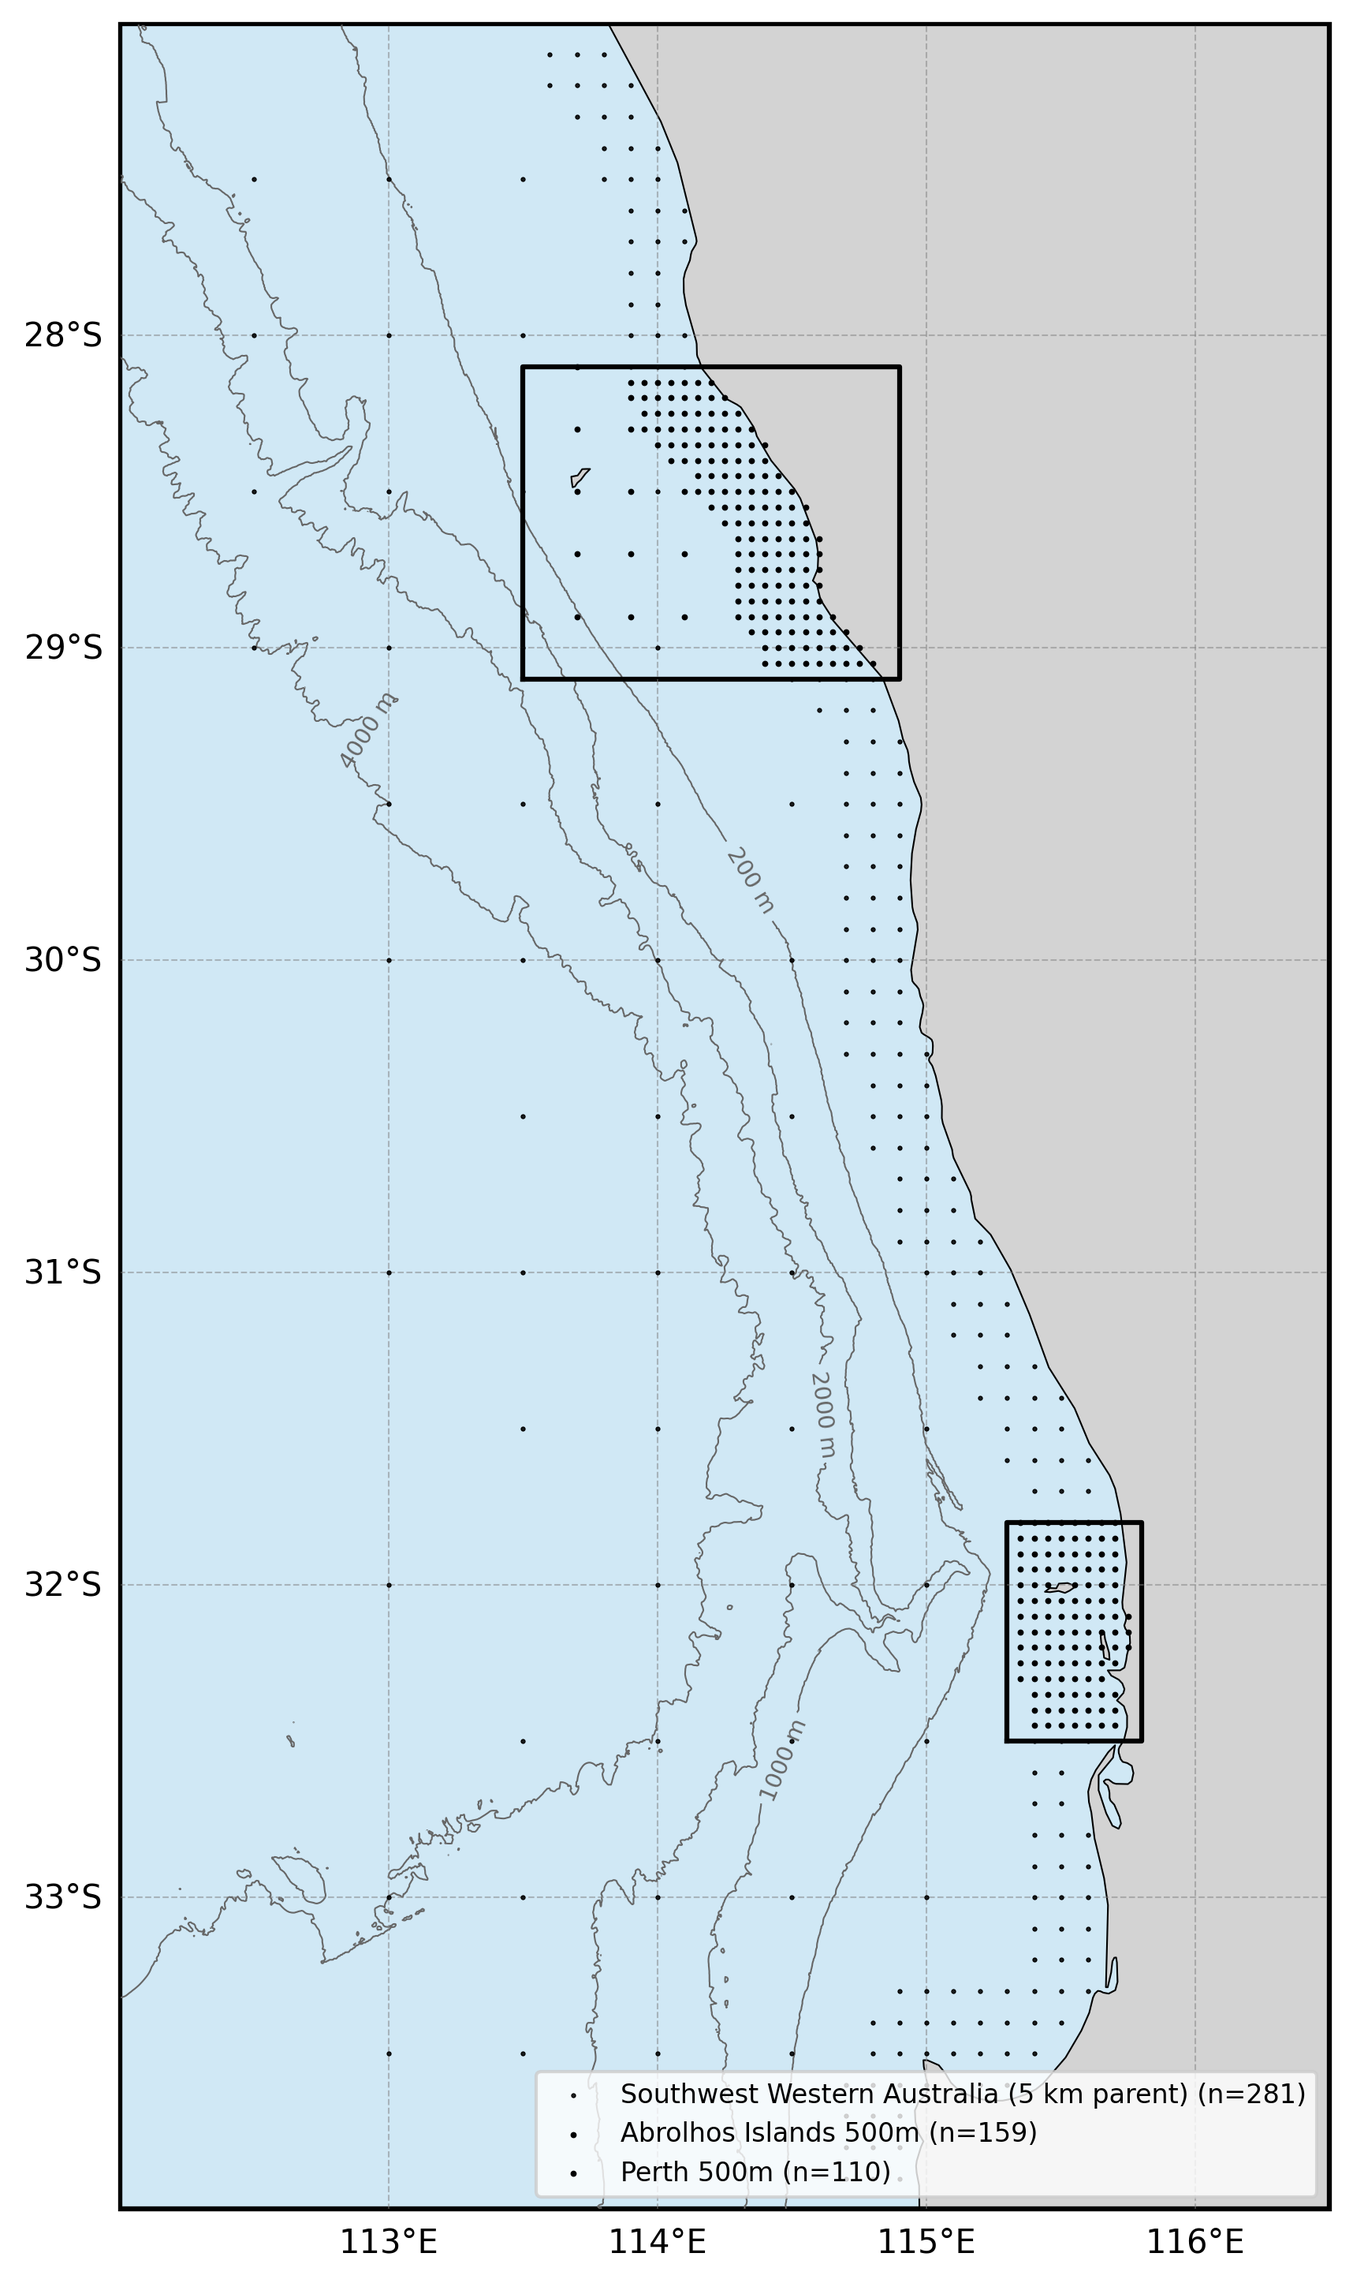
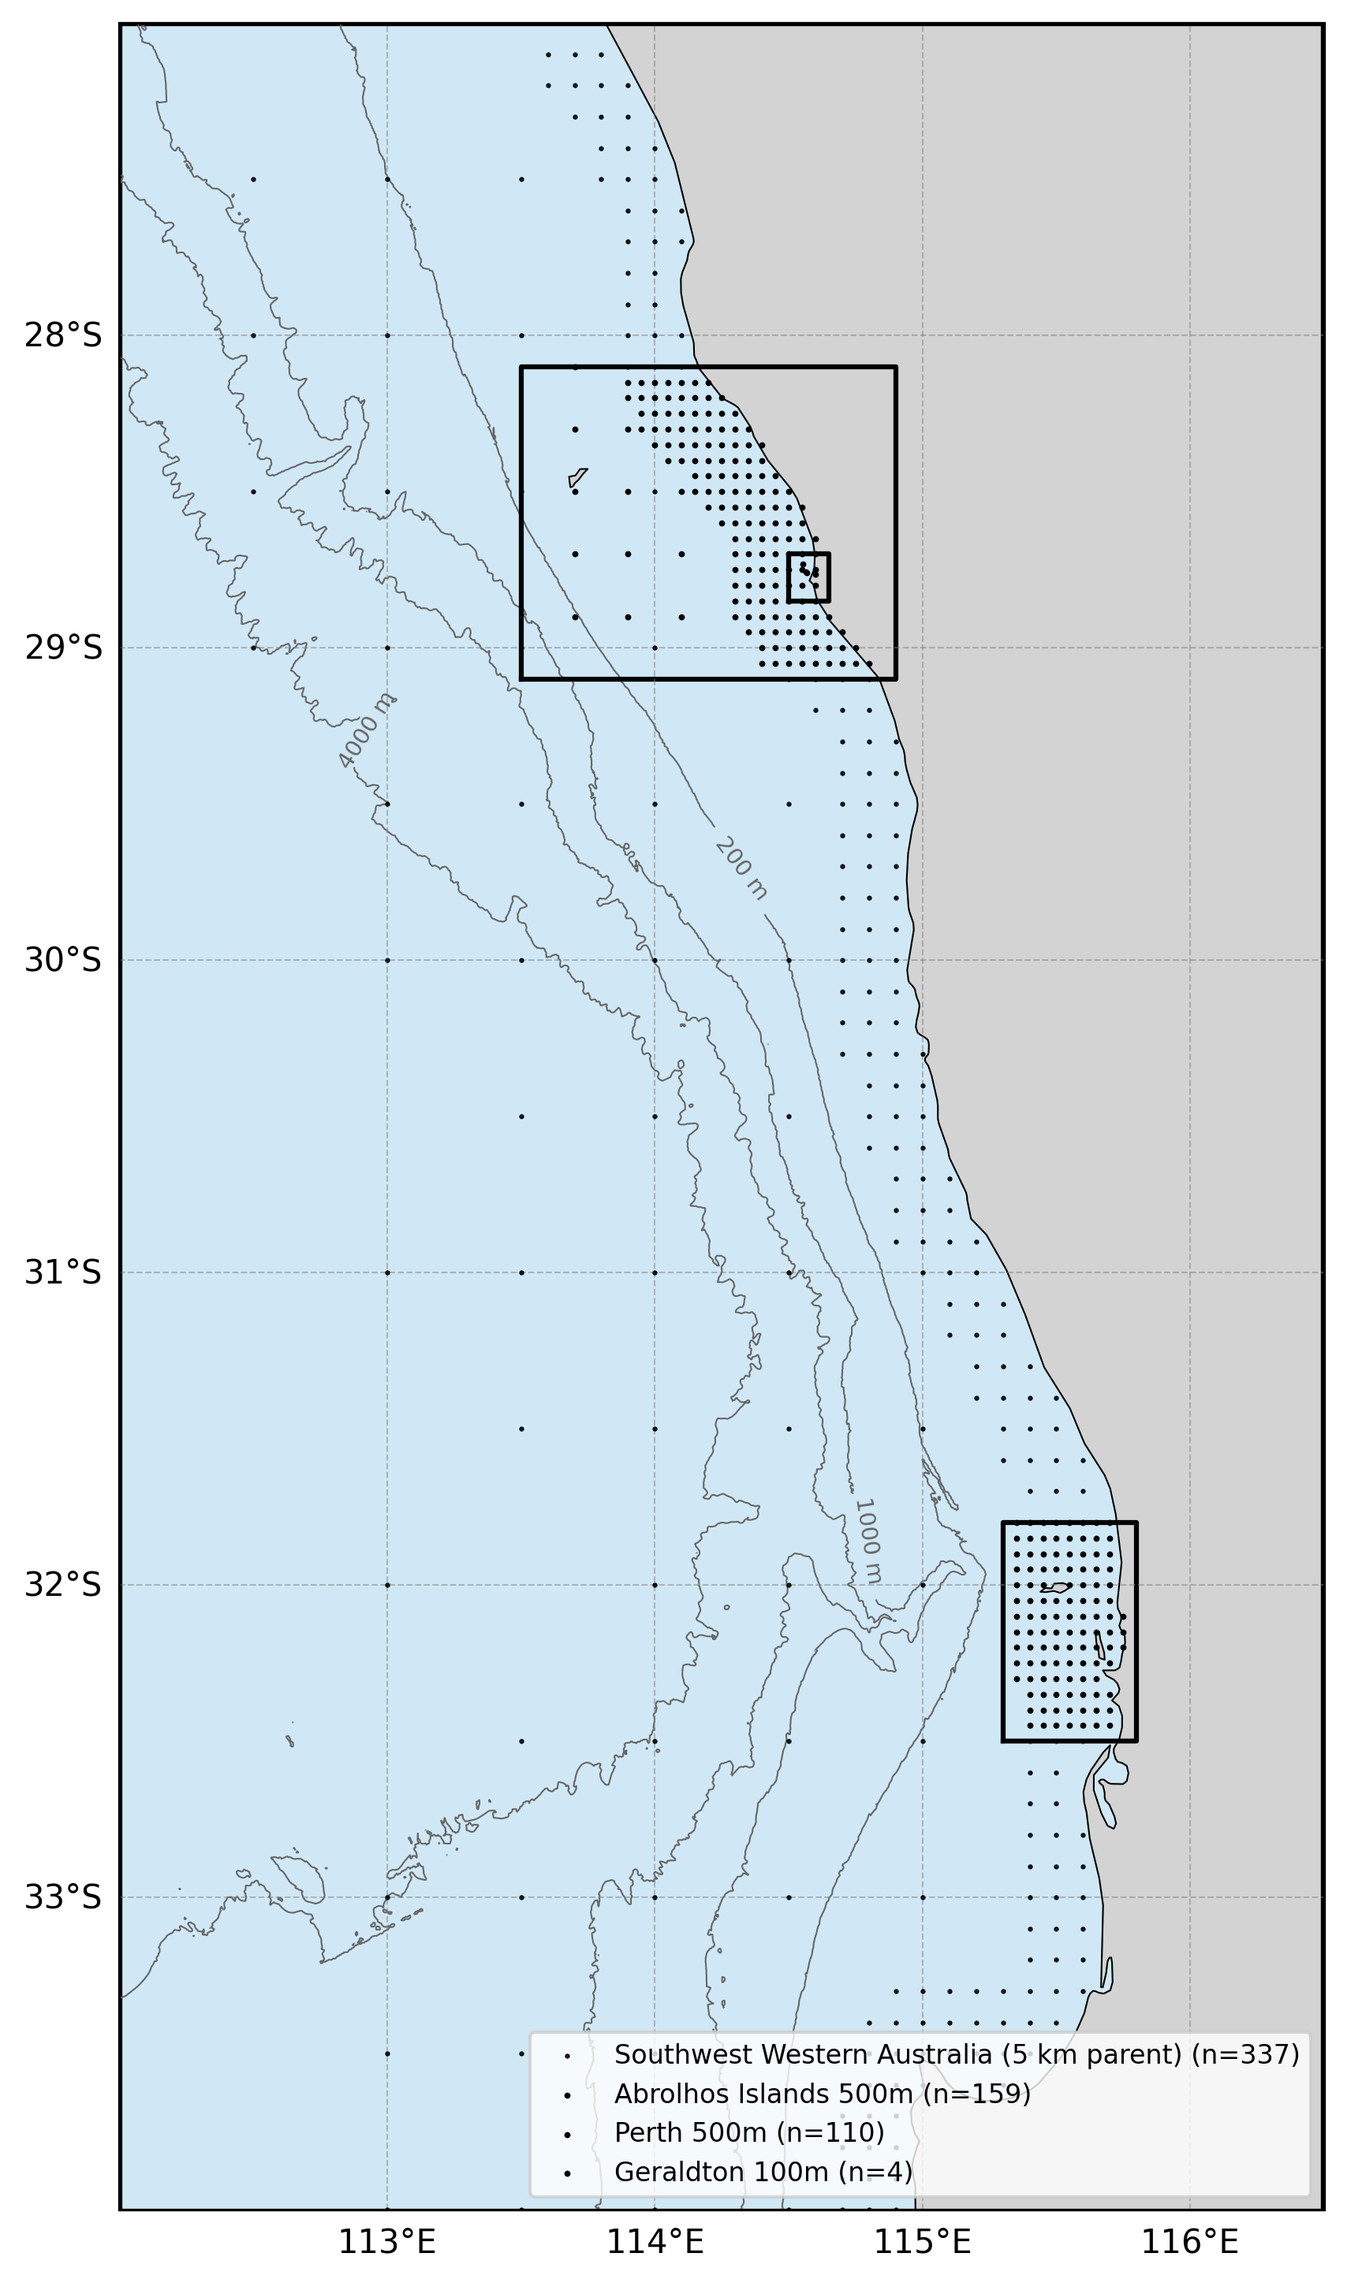
Updates to australia documents after gero addition

diff --git a/scripts/generate_figures.py b/scripts/generate_figures.py
@@ -539,6 +539,7 @@ SWWA_GFS_CONFIG = FigureConfig(
     nests=[
         NestConfig(name="Abrolhos Islands 500m", grid_id="oceanum_wave_gfs_abrol500m_grid", spec_id="oceanum_wave_gfs_abrol500m_spec_nowcast", color="black", site_size=3.0, linewidth=1.5),
         NestConfig(name="Perth 500m",            grid_id="oceanum_wave_gfs_perth500m_grid", spec_id="oceanum_wave_gfs_perth500m_spec_nowcast", color="black", site_size=3.0, linewidth=1.5),
+        NestConfig(name="Geraldton 100m",        grid_id="oceanum_wave_gfs_gero100m_grid",  spec_id="oceanum_wave_gfs_gero100m_spec_nowcast",  color="black", site_size=3.0, linewidth=1.5),
     ],
 )
 

diff --git a/oceanum_sw_western_australia_wave_forecast.md b/oceanum_sw_western_australia_wave_forecast.md
@@ -14,7 +14,7 @@ title: Oceanum Southwest Western Australia Wave Forecast
 |---|---|
 | **Model** | SWAN 41.31 |
 | **Forecast horizon** | 7 days |
-| **Spatial resolution** | 0.05 degree (~5 km) to 0.005 degree (~500 m) |
+| **Spatial resolution** | 0.05 degree (~5 km) to 0.001 degree (~100 m) |
 | **Temporal resolution** | 1 hourly |
 | **Region** | 112E - 116.5E, 35S - 27S |
 | **Forcings** | GFS/ECMWF winds, Mercator/TPXO9 currents, and Oceanum spectra |
@@ -26,19 +26,22 @@ title: Oceanum Southwest Western Australia Wave Forecast
 
 The Southwest Western Australia wave forecast dataset provides operational wave predictions across the southwestern and west coast of Western Australia (Figure 1). The domain extends from south of Cape Leeuwin and the Southern Ocean in the south, northward past the Margaret River region, Perth, Geraldton, the Abrolhos Islands, and into the waters of Shark Bay, encompassing some of Western Australia's most dynamic coastal environments. Wave forecasts are produced using the SWAN (Simulating WAves Nearshore) third-generation spectral wave model, with a 7-day forecast horizon.
 
-Two forcing configurations are available: <a href="https://www.ncep.noaa.gov/products/gfs/" target="_blank">NOAA GFS</a> updated every 6 hours (00, 06, 12, 18 UTC) and <a href="https://www.ecmwf.int/en/forecasts/datasets/open-data" target="_blank">ECMWF IFS</a> updated every 12 hours (00, 12 UTC). Ocean currents are prescribed from a combination of Mercator global ocean analysis and TPXO9 tidal atlas to capture both mesoscale circulation and tidal currents. Spectral boundary conditions are supplied by the Oceanum Global WW3 wave forecast forced with the respective wind source. Bathymetry is derived from the Australian Bathymetry and Topography 2024 250m grid.
+Two forcing configurations are available: <a href="https://www.ncep.noaa.gov/products/gfs/" target="_blank">NOAA GFS</a> updated every 6 hours (00, 06, 12, 18 UTC) and <a href="https://www.ecmwf.int/en/forecasts/datasets/open-data" target="_blank">ECMWF IFS</a> updated every 12 hours (00, 12 UTC). Ocean currents are prescribed from a combination of Mercator global ocean analysis and TPXO9 tidal atlas to capture both mesoscale circulation and tidal currents. Spectral boundary conditions are supplied by the Oceanum Global WW3 wave forecast forced with the respective wind source. Bathymetry is derived from the Australian Bathymetry and Topography 2026 250m grid.
 
-The modelling setup employs the <a href="https://journals.ametsoc.org/view/journals/atot/29/9/jtech-d-11-00092_1.xml" target="_blank">ST6</a> source term parameterisations. Spectra are discretised into 36 directional bins and 32 frequency bins, covering a frequency range from 0.037 to 0.71 Hz with 10% logarithmic increments. The model features a two-level nesting structure:
+The modelling setup employs the <a href="https://journals.ametsoc.org/view/journals/atot/29/9/jtech-d-11-00092_1.xml" target="_blank">ST6</a> source term parameterisations. Spectra are discretised into 36 directional bins and 32 frequency bins, covering a frequency range from 0.037 to 0.71 Hz with 10% logarithmic increments. The model features a three-level nesting structure:
 
 - **Southwest Western Australia 5 km** (0.05°): Regional parent domain covering 112–116.5°E, 35–27°S
-- **Abrolhos Islands 500 m** (0.005°): High-resolution nest covering 113.5–114.9°E, 29.1–28.1°S
-- **Perth 500 m** (0.005°): High-resolution nest covering 115.3–115.8°E, 32.5–31.8°S
+- **Abrolhos Islands 500 m** (0.005°): High-resolution nest covering 113.5–114.9°E, 29.1–28.1°S, nested within the 5 km parent
+- **Perth 500 m** (0.005°): High-resolution nest covering 115.3–115.8°E, 32.5–31.8°S, nested within the 5 km parent
+- **Geraldton 100 m** (0.001°): Ultra-high-resolution nest covering 114.5–114.65°E, 28.85–28.7°S, nested within the Abrolhos Islands 500 m domain
+
+The Geraldton 100 m domain resolves the port of Geraldton and its approaches, capturing nearshore wave transformation and refraction over the limestone reef platform fringing this section of coast, which exerts a strong dissipative control on nearshore wave heights. This nest is forced by winds and boundary spectra only; ocean currents are not applied at 100 m resolution.
 
 The dataset provides hourly forecast estimates for key ocean wave parameters (Table 3) including spectral quantities integrated over the full spectrum and for spectral partitions. Partitions are defined from an 8-second split (sea/swell) and from the Watershed method, which identifies one wind-forced partition and up to three swell partitions. Forecasts are archived for 30 days, and frequency-direction wave spectra are available at selected sites across all domains. Nowcast datasets are also available, constructed by retaining the most recent data from each forecast cycle to provide a continuous near-real-time historical record.
 
 <img src="./figures/swwa_figure1_domain.png" alt="Figure 1" width="600">
 
-**Figure 1.** Southwest Western Australia wave forecast domain extent. The bounding boxes of the Abrolhos Islands 500 m and Perth 500 m nested domains are outlined in black. Spectra output site locations are shown by black dots (337 sites in the parent domain, 159 sites in the Abrolhos Islands domain, and 110 sites in the Perth domain). Depth contours are shown at 200 m, 1000 m, 2000 m, and 4000 m.
+**Figure 1.** Southwest Western Australia wave forecast domain extent. The bounding boxes of the Abrolhos Islands 500 m, Perth 500 m, and Geraldton 100 m nested domains are outlined in black; the Geraldton 100 m domain sits within the Abrolhos Islands 500 m domain. Spectra output site locations are shown by black dots (337 sites in the parent domain, 159 sites in the Abrolhos Islands domain, 110 sites in the Perth domain, and 4 sites in the Geraldton domain). Depth contours are shown at 200 m, 1000 m, 2000 m, and 4000 m.
 
 ---
 
@@ -76,25 +79,28 @@ Figure 3 shows the spatial distribution of validation statistics across the doma
 | **Spatial coverage (5km)** | [112E, 35S, 116.5E, 27S] at 0.05 degree |
 | **Spatial coverage (500m Abrolhos)** | [113.5E, 29.1S, 114.9E, 28.1S] at 0.005 degree |
 | **Spatial coverage (500m Perth)** | [115.3E, 32.5S, 115.8E, 31.8S] at 0.005 degree |
+| **Spatial coverage (100m Geraldton)** | [114.5E, 28.85S, 114.65E, 28.7S] at 0.001 degree |
 | **Spectra sites (5km)** | 337 |
 | **Spectra sites (500m Abrolhos)** | 159 |
 | **Spectra sites (500m Perth)** | 110 |
+| **Spectra sites (100m Geraldton)** | 4 |
 | **Frequency discretisation** | 32 frequencies between 0.037 - 0.71 Hz at 10% logarithmic increments |
 | **Direction resolution** | 10 deg |
-| **Bathymetry** | Australian Bathymetry and Topography 2024 250m Grid |
+| **Bathymetry** | Australian Bathymetry and Topography 2026 250m Grid |
 | **Winds** | <a href="https://www.ncep.noaa.gov/products/gfs/" target="_blank">NOAA GFS</a> / <a href="https://www.ecmwf.int/en/forecasts/datasets/open-data" target="_blank">ECMWF IFS</a> |
-| **Currents** | <a href="https://data.marine.copernicus.eu/" target="_blank">Mercator Global Ocean Analysis</a> + <a href="https://www.tpxo.net/" target="_blank">TPXO9 Atlas</a> |
+| **Currents** | <a href="https://data.marine.copernicus.eu/" target="_blank">Mercator Global Ocean Analysis</a> + <a href="https://www.tpxo.net/" target="_blank">TPXO9 Atlas</a> (not applied in the 100 m Geraldton nest) |
 | **Boundary** | Oceanum Global WW3 wave forecast (GFS or ECMWF forced) |
 
 ### Nested domains
 
 **Table 2.** Nested domain overview.
 
-| Domain | Resolution | Bounds | Spectra sites |
-|--------|------------|--------|---------------|
-| Southwest Western Australia | 0.05° (~5 km) | 112–116.5°E, 35–27°S | 337 |
-| Abrolhos Islands | 0.005° (~500 m) | 113.5–114.9°E, 29.1–28.1°S | 159 |
-| Perth | 0.005° (~500 m) | 115.3–115.8°E, 32.5–31.8°S | 110 |
+| Domain | Resolution | Bounds | Spectra sites | Nested within |
+|--------|------------|--------|---------------|---------------|
+| Southwest Western Australia | 0.05° (~5 km) | 112–116.5°E, 35–27°S | 337 | Oceanum Global WW3 |
+| Abrolhos Islands | 0.005° (~500 m) | 113.5–114.9°E, 29.1–28.1°S | 159 | Southwest Western Australia 5 km |
+| Perth | 0.005° (~500 m) | 115.3–115.8°E, 32.5–31.8°S | 110 | Southwest Western Australia 5 km |
+| Geraldton | 0.001° (~100 m) | 114.5–114.65°E, 28.85–28.7°S | 4 | Abrolhos Islands 500 m |
 
 ### Linked Datamesh datasources
 
@@ -118,6 +124,12 @@ Figure 3 shows the spatial distribution of validation statistics across the doma
 - <a href="https://ui.datamesh.oceanum.io/datasource/oceanum_wave_gfs_perth500m_grid_nowcast" target="_blank">Oceanum Perth 500 m GFS wave nowcast parameters</a>
 - <a href="https://ui.datamesh.oceanum.io/datasource/oceanum_wave_gfs_perth500m_spec_nowcast" target="_blank">Oceanum Perth 500 m GFS wave nowcast spectra</a>
 
+**Geraldton 100 m:**
+- <a href="https://ui.datamesh.oceanum.io/datasource/oceanum_wave_gfs_gero100m_grid" target="_blank">Oceanum Geraldton 100 m GFS wave forecast parameters</a>
+- <a href="https://ui.datamesh.oceanum.io/datasource/oceanum_wave_gfs_gero100m_spec" target="_blank">Oceanum Geraldton 100 m GFS wave forecast spectra</a>
+- <a href="https://ui.datamesh.oceanum.io/datasource/oceanum_wave_gfs_gero100m_grid_nowcast" target="_blank">Oceanum Geraldton 100 m GFS wave nowcast parameters</a>
+- <a href="https://ui.datamesh.oceanum.io/datasource/oceanum_wave_gfs_gero100m_spec_nowcast" target="_blank">Oceanum Geraldton 100 m GFS wave nowcast spectra</a>
+
 #### ECMWF-forced (12-hourly updates)
 
 **Southwest Western Australia 5 km:**
@@ -137,6 +149,12 @@ Figure 3 shows the spatial distribution of validation statistics across the doma
 - <a href="https://ui.datamesh.oceanum.io/datasource/oceanum_wave_ec_perth500m_spec" target="_blank">Oceanum Perth 500 m ECMWF wave forecast spectra</a>
 - <a href="https://ui.datamesh.oceanum.io/datasource/oceanum_wave_ec_perth500m_grid_nowcast" target="_blank">Oceanum Perth 500 m ECMWF wave nowcast parameters</a>
 - <a href="https://ui.datamesh.oceanum.io/datasource/oceanum_wave_ec_perth500m_spec_nowcast" target="_blank">Oceanum Perth 500 m ECMWF wave nowcast spectra</a>
+
+**Geraldton 100 m:**
+- <a href="https://ui.datamesh.oceanum.io/datasource/oceanum_wave_ec_gero100m_grid" target="_blank">Oceanum Geraldton 100 m ECMWF wave forecast parameters</a>
+- <a href="https://ui.datamesh.oceanum.io/datasource/oceanum_wave_ec_gero100m_spec" target="_blank">Oceanum Geraldton 100 m ECMWF wave forecast spectra</a>
+- <a href="https://ui.datamesh.oceanum.io/datasource/oceanum_wave_ec_gero100m_grid_nowcast" target="_blank">Oceanum Geraldton 100 m ECMWF wave nowcast parameters</a>
+- <a href="https://ui.datamesh.oceanum.io/datasource/oceanum_wave_ec_gero100m_spec_nowcast" target="_blank">Oceanum Geraldton 100 m ECMWF wave nowcast spectra</a>
 
 ---
 
@@ -193,7 +211,7 @@ Integrated wave parameters are stored hourly over the domain at the native model
 
 ## Spectra output
 
-Frequency-direction wave spectra are stored hourly at selected sites across all domains: 337 sites in the Southwest Western Australia 5 km parent domain, 159 sites in the Abrolhos Islands 500 m domain, and 110 sites in the Perth 500 m domain. Spectra are discretised into 36 directional bins (10 degree resolution) and 32 frequency bins (0.037 - 0.71 Hz at 10% logarithmic increments).
+Frequency-direction wave spectra are stored hourly at selected sites across all domains: 337 sites in the Southwest Western Australia 5 km parent domain, 159 sites in the Abrolhos Islands 500 m domain, 110 sites in the Perth 500 m domain, and 4 sites in the Geraldton 100 m domain. Spectra are discretised into 36 directional bins (10 degree resolution) and 32 frequency bins (0.037 - 0.71 Hz at 10% logarithmic increments).
 
 **Table 4.** Spectra output parameters.
 

diff --git a/oceanum_northwest_cape_wave_forecast.md b/oceanum_northwest_cape_wave_forecast.md
@@ -26,7 +26,7 @@ title: Oceanum Northwest Cape Wave Forecast
 
 The Northwest Cape wave forecast dataset provides operational wave predictions across the Northwest Cape region of Western Australia (Figure 1). The domain encompasses the Exmouth Gulf, Ningaloo Reef, and extends south to Cape Cuvier. Wave forecasts are produced using the SWAN (Simulating WAves Nearshore) third-generation spectral wave model, with a 7-day forecast horizon.
 
-Two forcing configurations are available: <a href="https://www.ncep.noaa.gov/products/gfs/" target="_blank">NOAA GFS</a> updated every 6 hours (00, 06, 12, 18 UTC) and <a href="https://www.ecmwf.int/en/forecasts/datasets/open-data" target="_blank">ECMWF IFS</a> updated every 12 hours (00, 12 UTC). Ocean currents are prescribed from a combination of Mercator global ocean analysis and TPXO9 tidal atlas to capture both mesoscale circulation and tidal currents. Spectral boundary conditions are supplied by the Oceanum Global WW3 wave forecast forced with the respective wind source. Bathymetry is derived from the Australian Bathymetry and Topography 2024 250m grid.
+Two forcing configurations are available: <a href="https://www.ncep.noaa.gov/products/gfs/" target="_blank">NOAA GFS</a> updated every 6 hours (00, 06, 12, 18 UTC) and <a href="https://www.ecmwf.int/en/forecasts/datasets/open-data" target="_blank">ECMWF IFS</a> updated every 12 hours (00, 12 UTC). Ocean currents are prescribed from a combination of Mercator global ocean analysis and TPXO9 tidal atlas to capture both mesoscale circulation and tidal currents. Spectral boundary conditions are supplied by the Oceanum Global WW3 wave forecast forced with the respective wind source. Bathymetry is derived from the Australian Bathymetry and Topography 2026 250m grid.
 
 The modelling setup employs the <a href="https://journals.ametsoc.org/view/journals/atot/29/9/jtech-d-11-00092_1.xml" target="_blank">ST6</a> source term parameterisations. Spectra are discretised into 36 directional bins and 32 frequency bins, covering a frequency range from 0.037 to 0.71 Hz with 10% logarithmic increments. The model features a three-level nesting structure:
 
@@ -68,7 +68,7 @@ The wave model physics and calibration follow the same approach validated agains
 | **Spatial coverage (50m)** | [113.36E, 24.25S, 113.435E, 24.2S] at 0.0005 degree |
 | **Frequency discretisation** | 32 frequencies between 0.037 - 0.71 Hz at 10% logarithmic increments |
 | **Direction resolution** | 10 deg |
-| **Bathymetry** | Australian Bathymetry and Topography 2024 250m Grid |
+| **Bathymetry** | Australian Bathymetry and Topography 2026 250m Grid |
 | **Winds** | <a href="https://www.ncep.noaa.gov/products/gfs/" target="_blank">NOAA GFS</a> / <a href="https://www.ecmwf.int/en/forecasts/datasets/open-data" target="_blank">ECMWF IFS</a> |
 | **Currents** | <a href="https://data.marine.copernicus.eu/" target="_blank">Mercator Global Ocean Analysis</a> + <a href="https://www.tpxo.net/" target="_blank">TPXO9 Atlas</a> |
 | **Boundary** | Oceanum Global WW3 wave forecast (GFS or ECMWF forced) |
